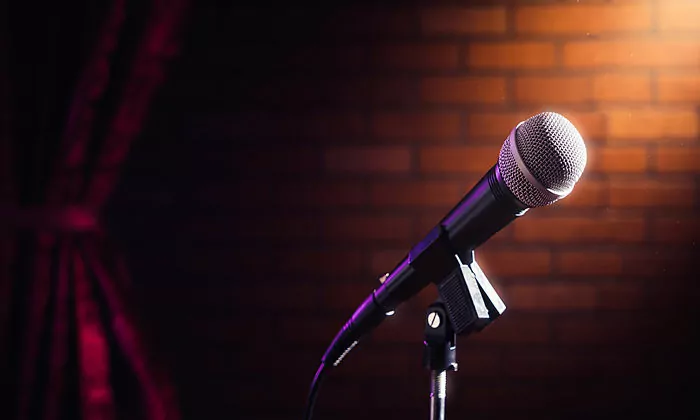
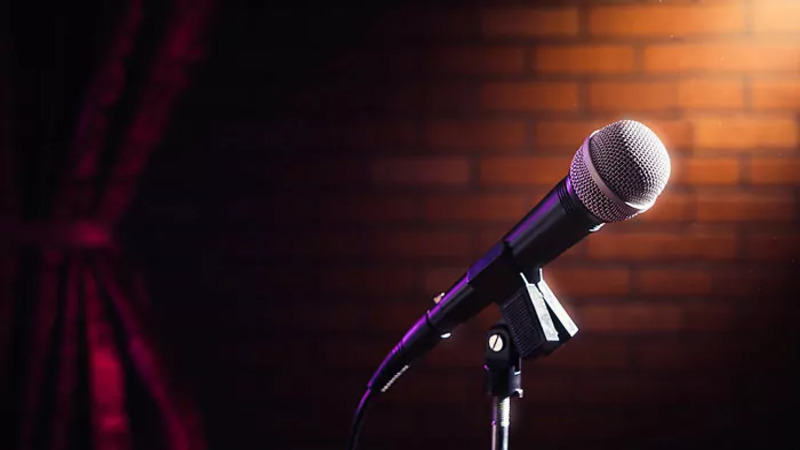
mejora incremental

Changed region(s): [[0.69, 0.2786, 0.84, 0.4952], [0.66, 0.619, 0.72, 0.7429], [0.6, 0.7429, 0.63, 0.7738]]

diff --git a/index.html b/index.html
@@ -17,9 +17,6 @@
 <header>
   <nav>
     <a href="#home">Inicio</a>
-    <a href="#events">Eventos</a>
-    <a href="#collaborate">Colaborar</a>
-    <a href="#download">Descargar</a>
   </nav>
 </header>
 
@@ -32,35 +29,37 @@
   </div>
 
   <div class="carousel">
-    <div><img src="Imagenes/Microfono.jpg" alt="Imagen 1"></div>
-    <div><img src="Imagenes/Imagen de fondo.jpg" alt="Imagen 2"></div>
-    <div><img src="Imagenes/museo.jpeg" alt="Imagen 3"></div>
+    <div class="image-container"><img src="Imagenes/Microfono.jpg" alt="Imagen 1"></div>
+    <div class="image-container"><img src="Imagenes/Jazz.jpeg" alt="Imagen 2"></div>
+    <div class="image-container"><img src="Imagenes/Evento_1.jpeg" alt="Imagen 3"></div>
+    <div class="image-container"><img src="Imagenes/Arte.jpg" alt="Imagen 3"></div>
+    <div class="image-container"><img src="Imagenes/Karting.jpeg" alt="Imagen 3"></div>
   </div>
   
 </section>
 
 <section id="about">
-  <h2>¿Que es Iffitz?</h2>
-  <p>Es una plataforma que te permititrá ver los eventos que existen dentro de tu ciudad,
+  <h2>¿Que es Iffitz? 🤔</h2>
+  <p>Es una plataforma que te permititrá ver los eventos que existen dentro de tu ciudad 👀,
     <br> ¿cuantas veces te has perdido un concierto por que no se comunicó bien? ¿A cuantas exposiciones has dejado de ir por que no sabías que existían?
-    <br> Nuestra misión es que <str>nunca más te pierdas de nada</str>, que sepas lo que está pasando a tu alrededor y puedas disfrutar al maximo lo que a ciudad tiene para ofrecerte.
+    <br> Nuestra misión es que <str>nunca más te pierdas de nada</str> 💪💪, que sepas lo que está pasando a tu alrededor y puedas disfrutar al maximo lo que a ciudad tiene para ofrecerte 🕺.
   </p>
   <!-- Add more paragraphs here -->
 </section>
 
 <section id="features">
-  <h2>¿Por que?</h2>
+  <h2>¿Por que? 🧐</h2>
 
-  <p>Podríamos decir que es para promover la cultura y el arte, pero la verdad es que esta aplicación nace de un problema personal
+  <p>Podríamos decir que es para promover la cultura y el arte 🎨, pero la verdad es que esta aplicación nace de un problema personal
      <str>¡¡Queremos hacer cosas y aprovechar la vida!!</str>Estamos profundamente en desacuerdo con estas echados viendo televisión cuando hay un mundo lleno de cosas pasando</p>
   <!-- Add feature blocks here -->
 </section>
 
 <section id="gallery">
-  <h2>La Anti-red social</h2>
+  <h2>La Anti-red social 🤠</h2>
   <p>
-    Las redes sociales nos han decepcionado, ya que en vez de conectar a la gente nos han vuelto más aislados, por eso Iffitz es la anti-red social, no queremos que pases horas en la aplicación, 
-    queremos invitarte a salir y disfrutar lo que está pasando en tu ciudad, y que tengas nuevas y mejores experiencias.
+    Las redes sociales nos han decepcionado, ya que en vez de conectar a la gente nos han vuelto más aislados 😔, por eso Iffitz es la anti-red social, no queremos que pases horas en la aplicación, 
+    queremos invitarte a salir y disfrutar lo que está pasando en tu ciudad, y que tengas nuevas y mejores experiencias 🎼.
   </p>
 </section>
 
@@ -70,16 +69,16 @@
     <section class="person">
       <img src="Imagenes/Cristóbal.jpg" alt="Persona 1">
       <div class="info">
-        <h3>Cristóbal Pérez-Cotapos</h3>
-        <p>Un apasionado por el mundo de la programación y fanatico eterno del jazz</p>
+        <h3>Cristóbal Pérez-Cotapos 🤖</h3>
+        <p>Un apasionado por el mundo de la programación <br> y fanatico eterno del jazz</p>
       </div>
     </section>
   
     <section class="person">
       <img src="Imagenes/Maida.jpg" alt="Persona 2">
       <div class="info">
-        <h3>Maida Vergara</h3>
-        <p>Fotógrafa y artista amateur, siempre pendiente a las tendencias innovadoras, los panoramas entretenidos y la música del momento.</p>
+        <h3>Maida Vergara 😛</h3>
+        <p>Fotógrafa y artista amateur, siempre pendiente a <br> las tendencias innovadoras, los panoramas entretenidos y la música del momento.</p>
       </div>
     </section>
   

diff --git a/styles.css b/styles.css
@@ -43,10 +43,6 @@ footer {
   padding: 1em 0;
 }
 
-img {
-  max-width: 100%;
-  height: auto;
-}
 
 .hero {
   display: flex;
@@ -74,12 +70,17 @@ img {
   max-height: 70vh;
 }
 
+.image-container {
+  max-width: 80%;
+  max-height: 70vh;
+}
+
 .image-container img {
   display: block;
-  width: auto;
-  height: auto;
+  width: 100%;
+  height: 100%;
   max-width: 100%;
-  max-height: 80%;
+  max-height: 100%; /* Cambiado a 100% para que todas las imágenes tengan el mismo tamaño */
   margin: 0 auto;
 }
 
